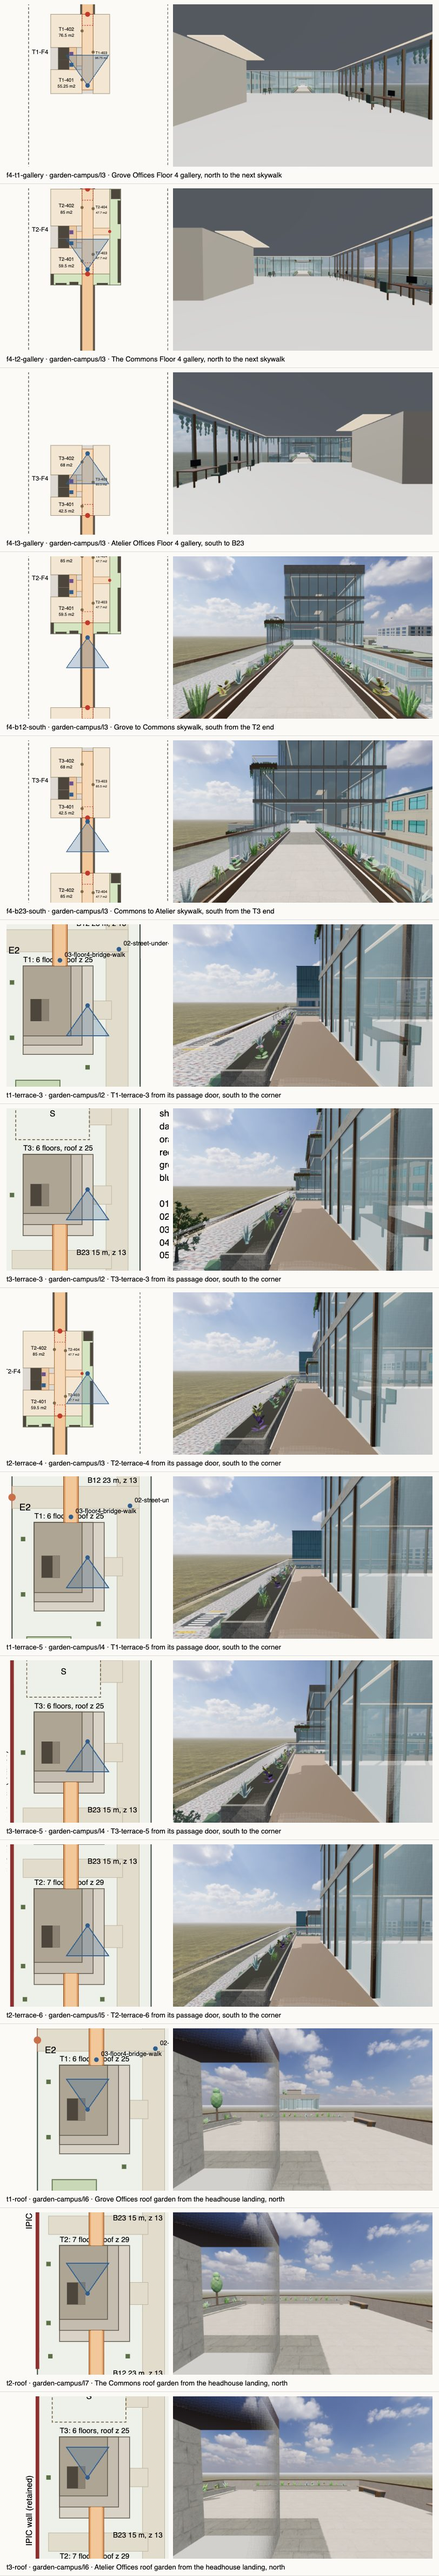
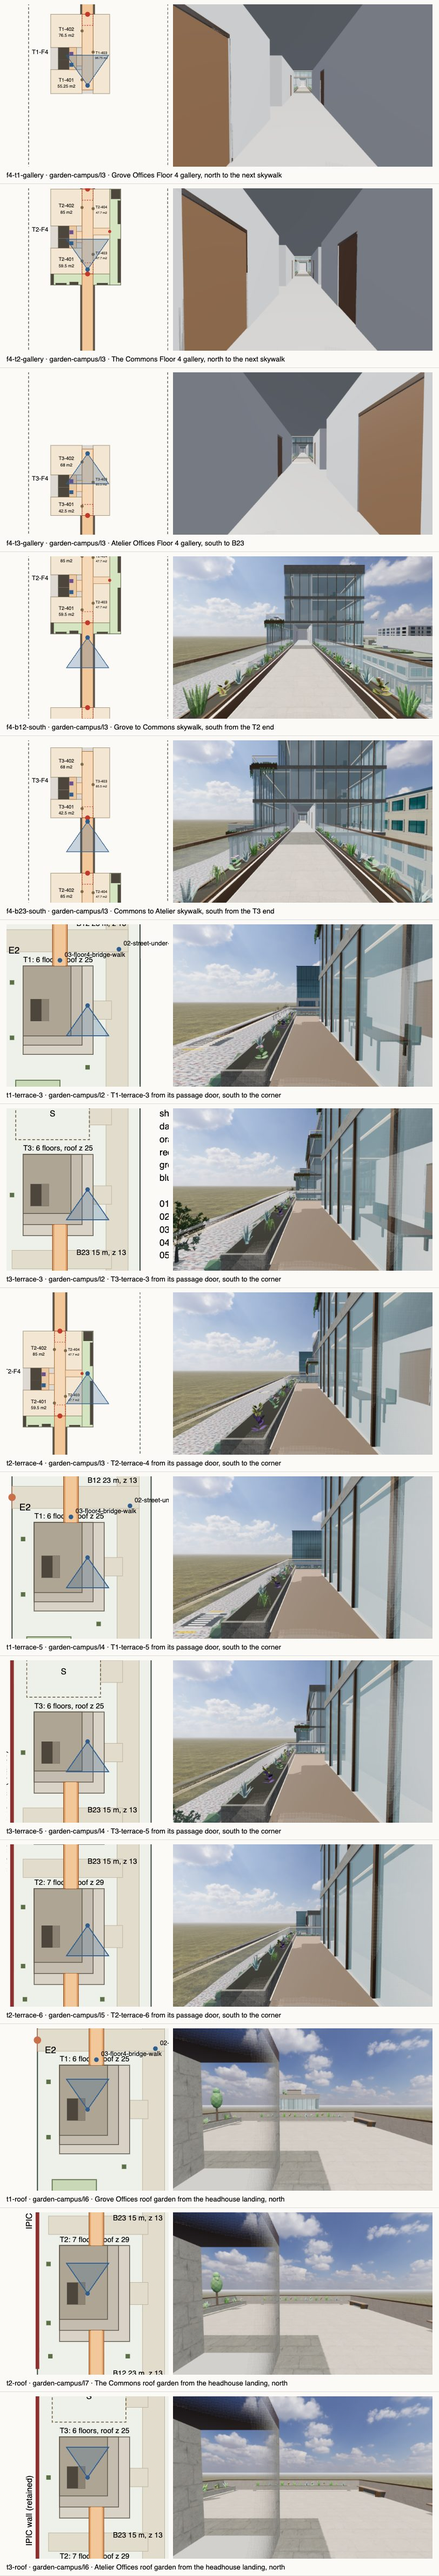
Garden campus: circulation views with the suite walls in (#508 slice b)
Re-rendered on #512 candidate 01ee3243 after #507 a6dbb661: every Floor 4
gallery reads as a walled corridor with closed suite doors, opaque at any
camera distance. The dark gallery ceilings remain for #508's finishes.

Coven-Harness: Claude Code / claude-opus-5-5

diff --git a/docs/superpowers/plans/2026-10-18-garden-campus-traversal-views-508b.md b/docs/superpowers/plans/2026-10-18-garden-campus-traversal-views-508b.md
@@ -77,7 +77,7 @@ See the #505 tracker, "#508 slice (b) plan":
 - `node --test preview/tests/garden-campus-circulation-views.test.js`: 3/3 at `706429f1`.
   On the candidate `d8fe456a`, the circulation and #511 finish tests pass 12/12.
 - **Render.** `node preview/e2e/garden-campus-views.mjs gardens circulation` on the #512
-  candidate `d8fe456a`:
+  candidate `d8fe456a`, re-rendered at `01ee3243` after the walls (sheet and receipt replaced):
   - candidate contents: #507 `086c197e`, #509, #510 `465785d2`, #511 `b73cf65a` and this slice;
   - setup: M3 Max, ANGLE Metal, 1280×800, Smooth, 15:00, interface hidden, under the browser
     lock, host load ~40;
@@ -87,11 +87,12 @@ See the #505 tracker, "#508 slice (b) plan":
 
 ## Findings from the views (for #508, river-oaks-c5)
 
-1. **Galleries are not separated from the suites.** All three Floor 4 galleries render without
-   the gallery or spine walls and the closed suite door frames. #510's suite desks read as one
-   open floor with the public gallery. This is the agreed #508 scope (circulation walls and
-   suite door frames). It blocks release: until it lands, the campus shows private suites as
-   open public space.
+1. **Galleries were not separated from the suites (closed).** At `d8fe456a`, all three
+   Floor 4 galleries rendered without walls or suite doors, and #510's suite desks read as
+   public space. Val moved the walls to #507. #507 `a6dbb661` adds them with closed doors,
+   opaque at any camera distance. A second render (`79f74bfb`) showed the near-camera fade
+   dissolving them, which is now fixed. The current sheet at `01ee3243` shows each gallery as a
+   walled corridor with closed suite doors.
 2. **The ceiling is dark.** Gallery ceilings render as an unlit dark slab underside. That is
    finish scope; the gallery and landing finishes are c5's.
 3. Skywalks, terraces and roofs read as #511 finished them: planted troughs, glass guards,
@@ -101,5 +102,5 @@ See the #505 tracker, "#508 slice (b) plan":
 
 1. When #508's first push lands, merge c5's branch here and build the two-player
    journey against its protocol.
-2. Re-render the circulation set once #508's gallery walls, suite door frames and finishes
-   land, and confirm findings 1 and 2 are closed.
+2. Re-render the circulation set once #508's ceiling, floor and lighting finishes land, and
+   confirm finding 2 is closed.
